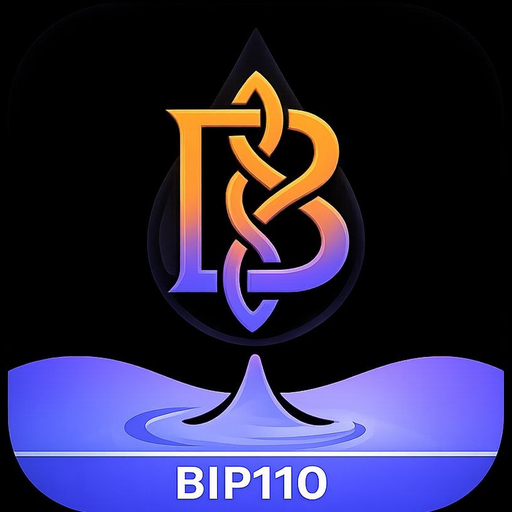
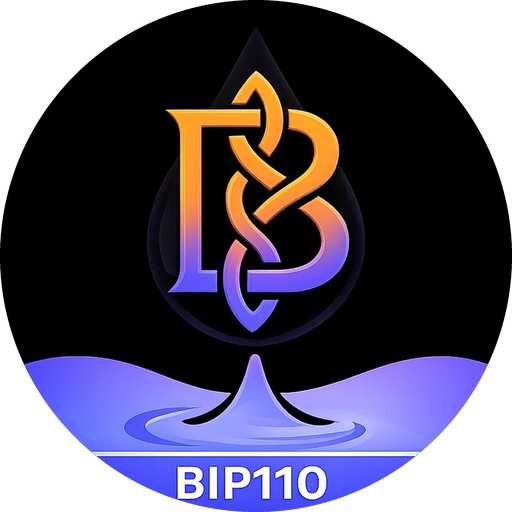
1.0.1: icono redondo como la wallet y firma de Kilombino
Icono adaptativo con fondo a sangre (el lanzador lo recorta en círculo, como el
de Kilombino Bitcoin-Blake2b wallet) y logo redondo en el widget y la app. Se
firma con la misma clave que la wallet.

diff --git a/app/src/main/java/com/kilombino/xbtwidget/XbtRepository.kt b/app/src/main/java/com/kilombino/xbtwidget/XbtRepository.kt
@@ -92,5 +92,5 @@ object XbtRepository {
 
 /** Evita depender de BuildConfig (desactivado por defecto en AGP 8). */
 object BuildConfigInfo {
-    const val VERSION = "1.0.0"
+    const val VERSION = "1.0.1"
 }

diff --git a/CHANGELOG.md b/CHANGELOG.md
@@ -1,3 +1,10 @@
+## 1.0.1
+
+### Changed
+- Round app icon, like the Kilombino Bitcoin-Blake2b wallet (adaptive icon that fills the whole circle).
+- Round logo inside the widget and the app.
+- Published and signed by Kilombino, with the same signing key as the Kilombino Bitcoin-Blake2b wallet.
+
 ## 1.0.0
 
 ### Added
